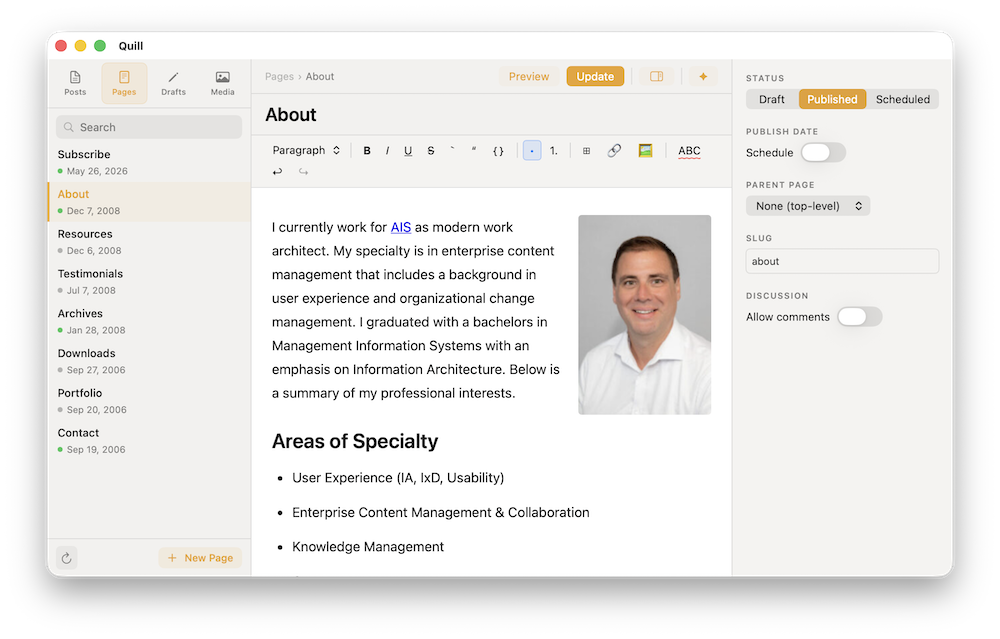
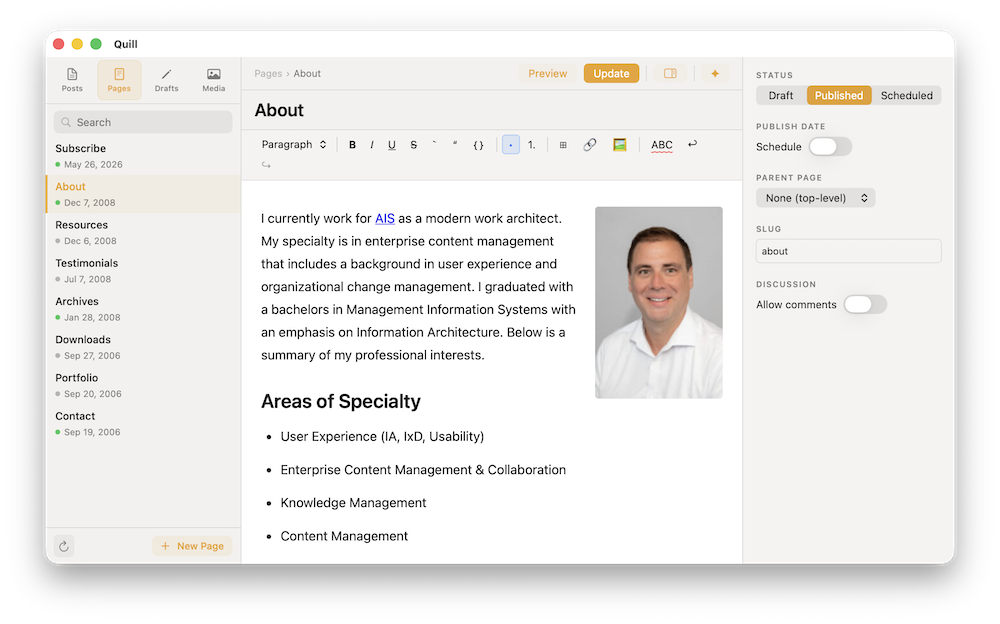
Copy edits, replace page screenshot

diff --git a/index.html b/index.html
@@ -86,7 +86,7 @@
     <div class="feature-row__text">
       <p class="eyebrow">Offline Writing</p>
       <h2 class="feature-row__headline">Write offline.<br>Publish when you're ready.</h2>
-      <p class="feature-row__body">Quill allows to write completely on your Mac without the need to push to WordPress or have an active internet connection. Publish drafts or make them live when you are ready.</p>
+      <p class="feature-row__body">Quill allows to write completely on your Mac without the need to push to WordPress or have an active internet connection. Push drafts to WordPress, schedule posts, or publish directly.</p>
       <ul class="feature-list">
         <li>Local drafts stored in SQLite, no internet required to write</li>
         <li>Autosave every 30 seconds while you write</li>
